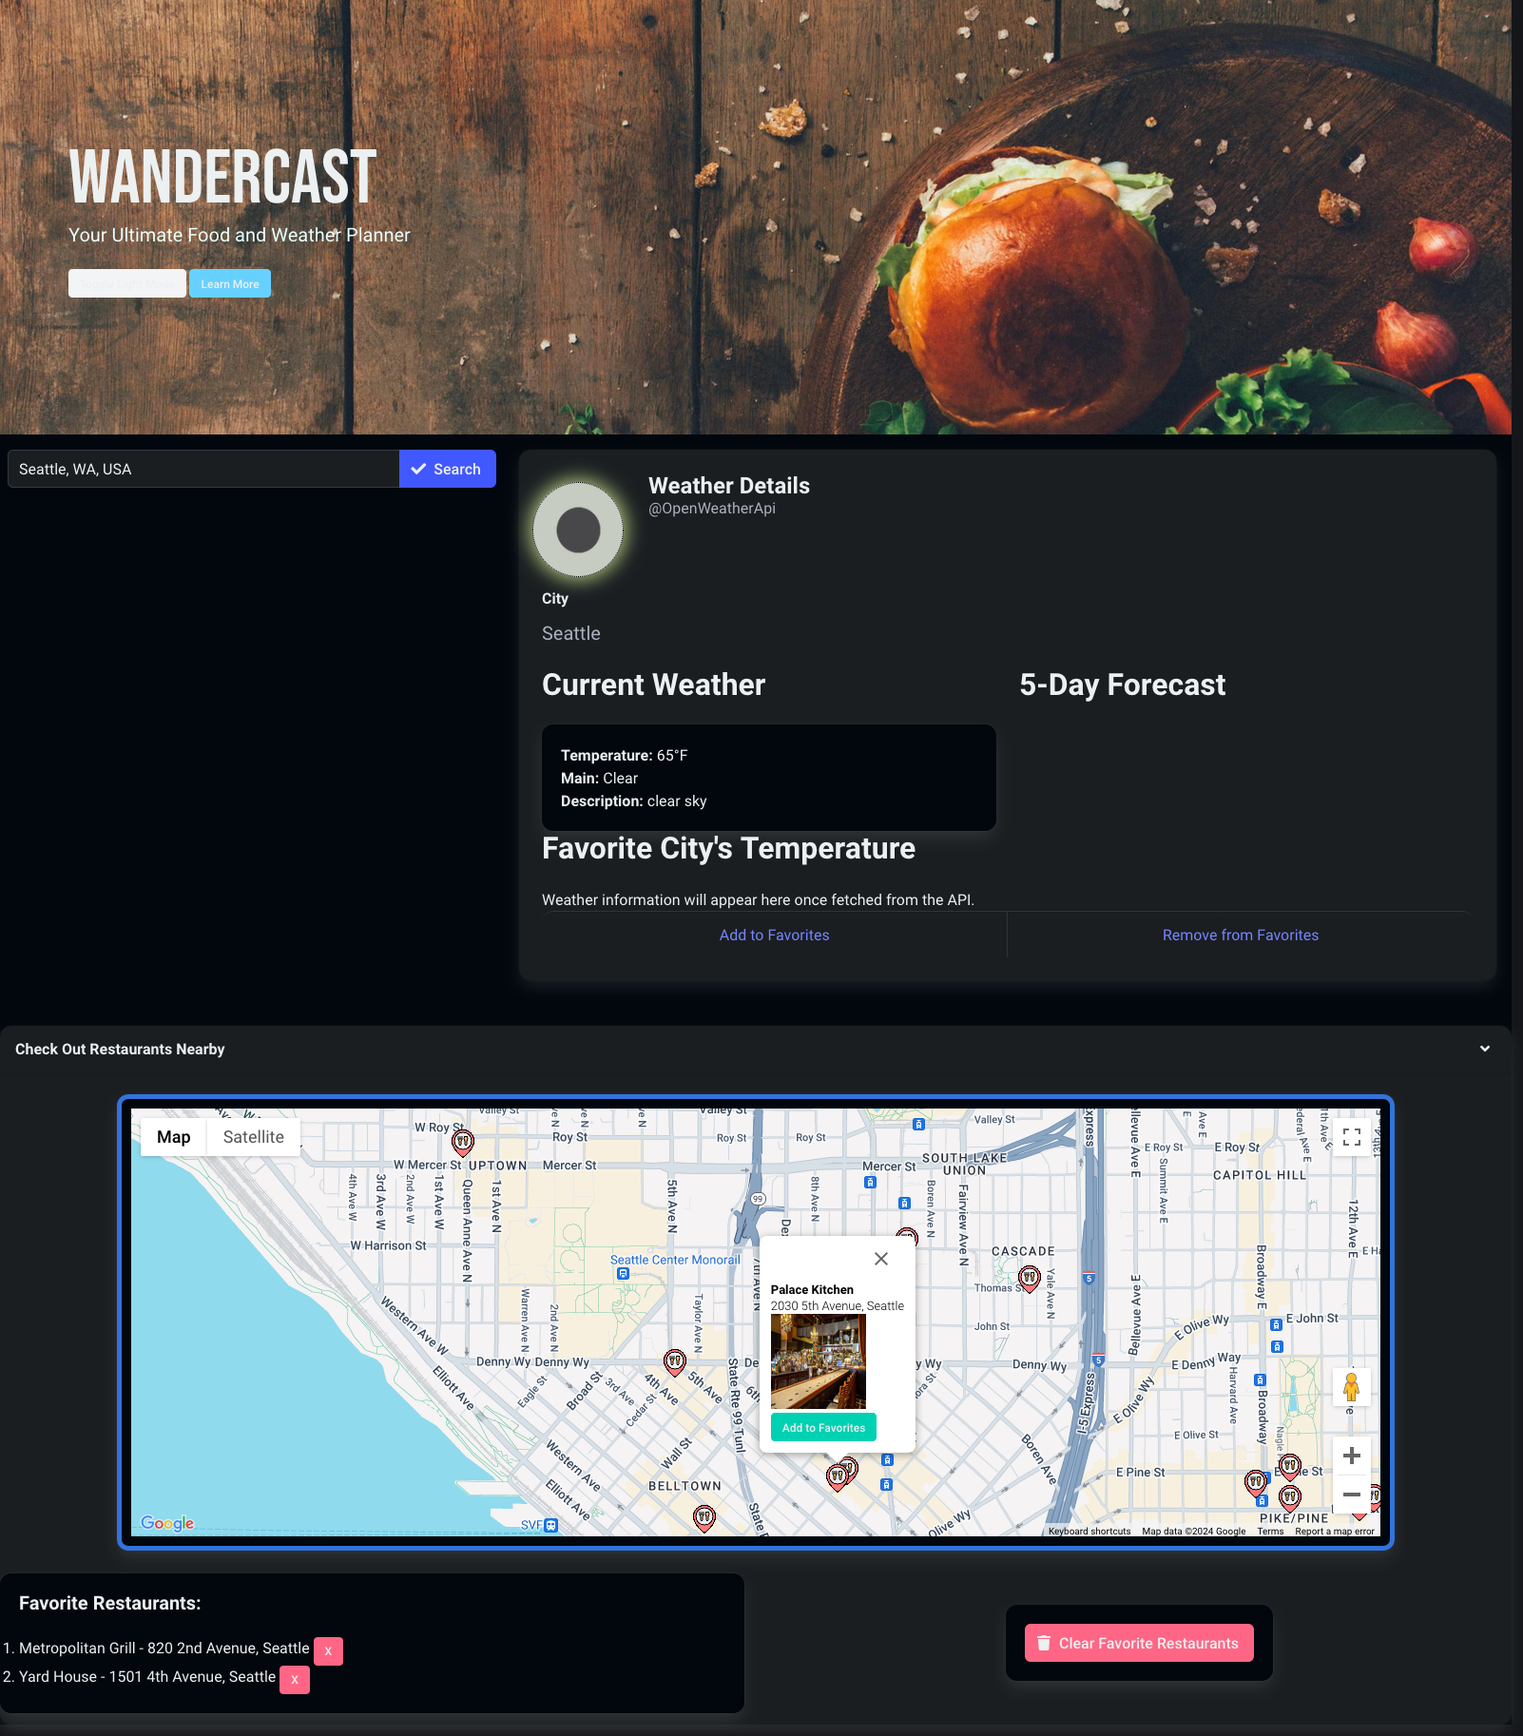
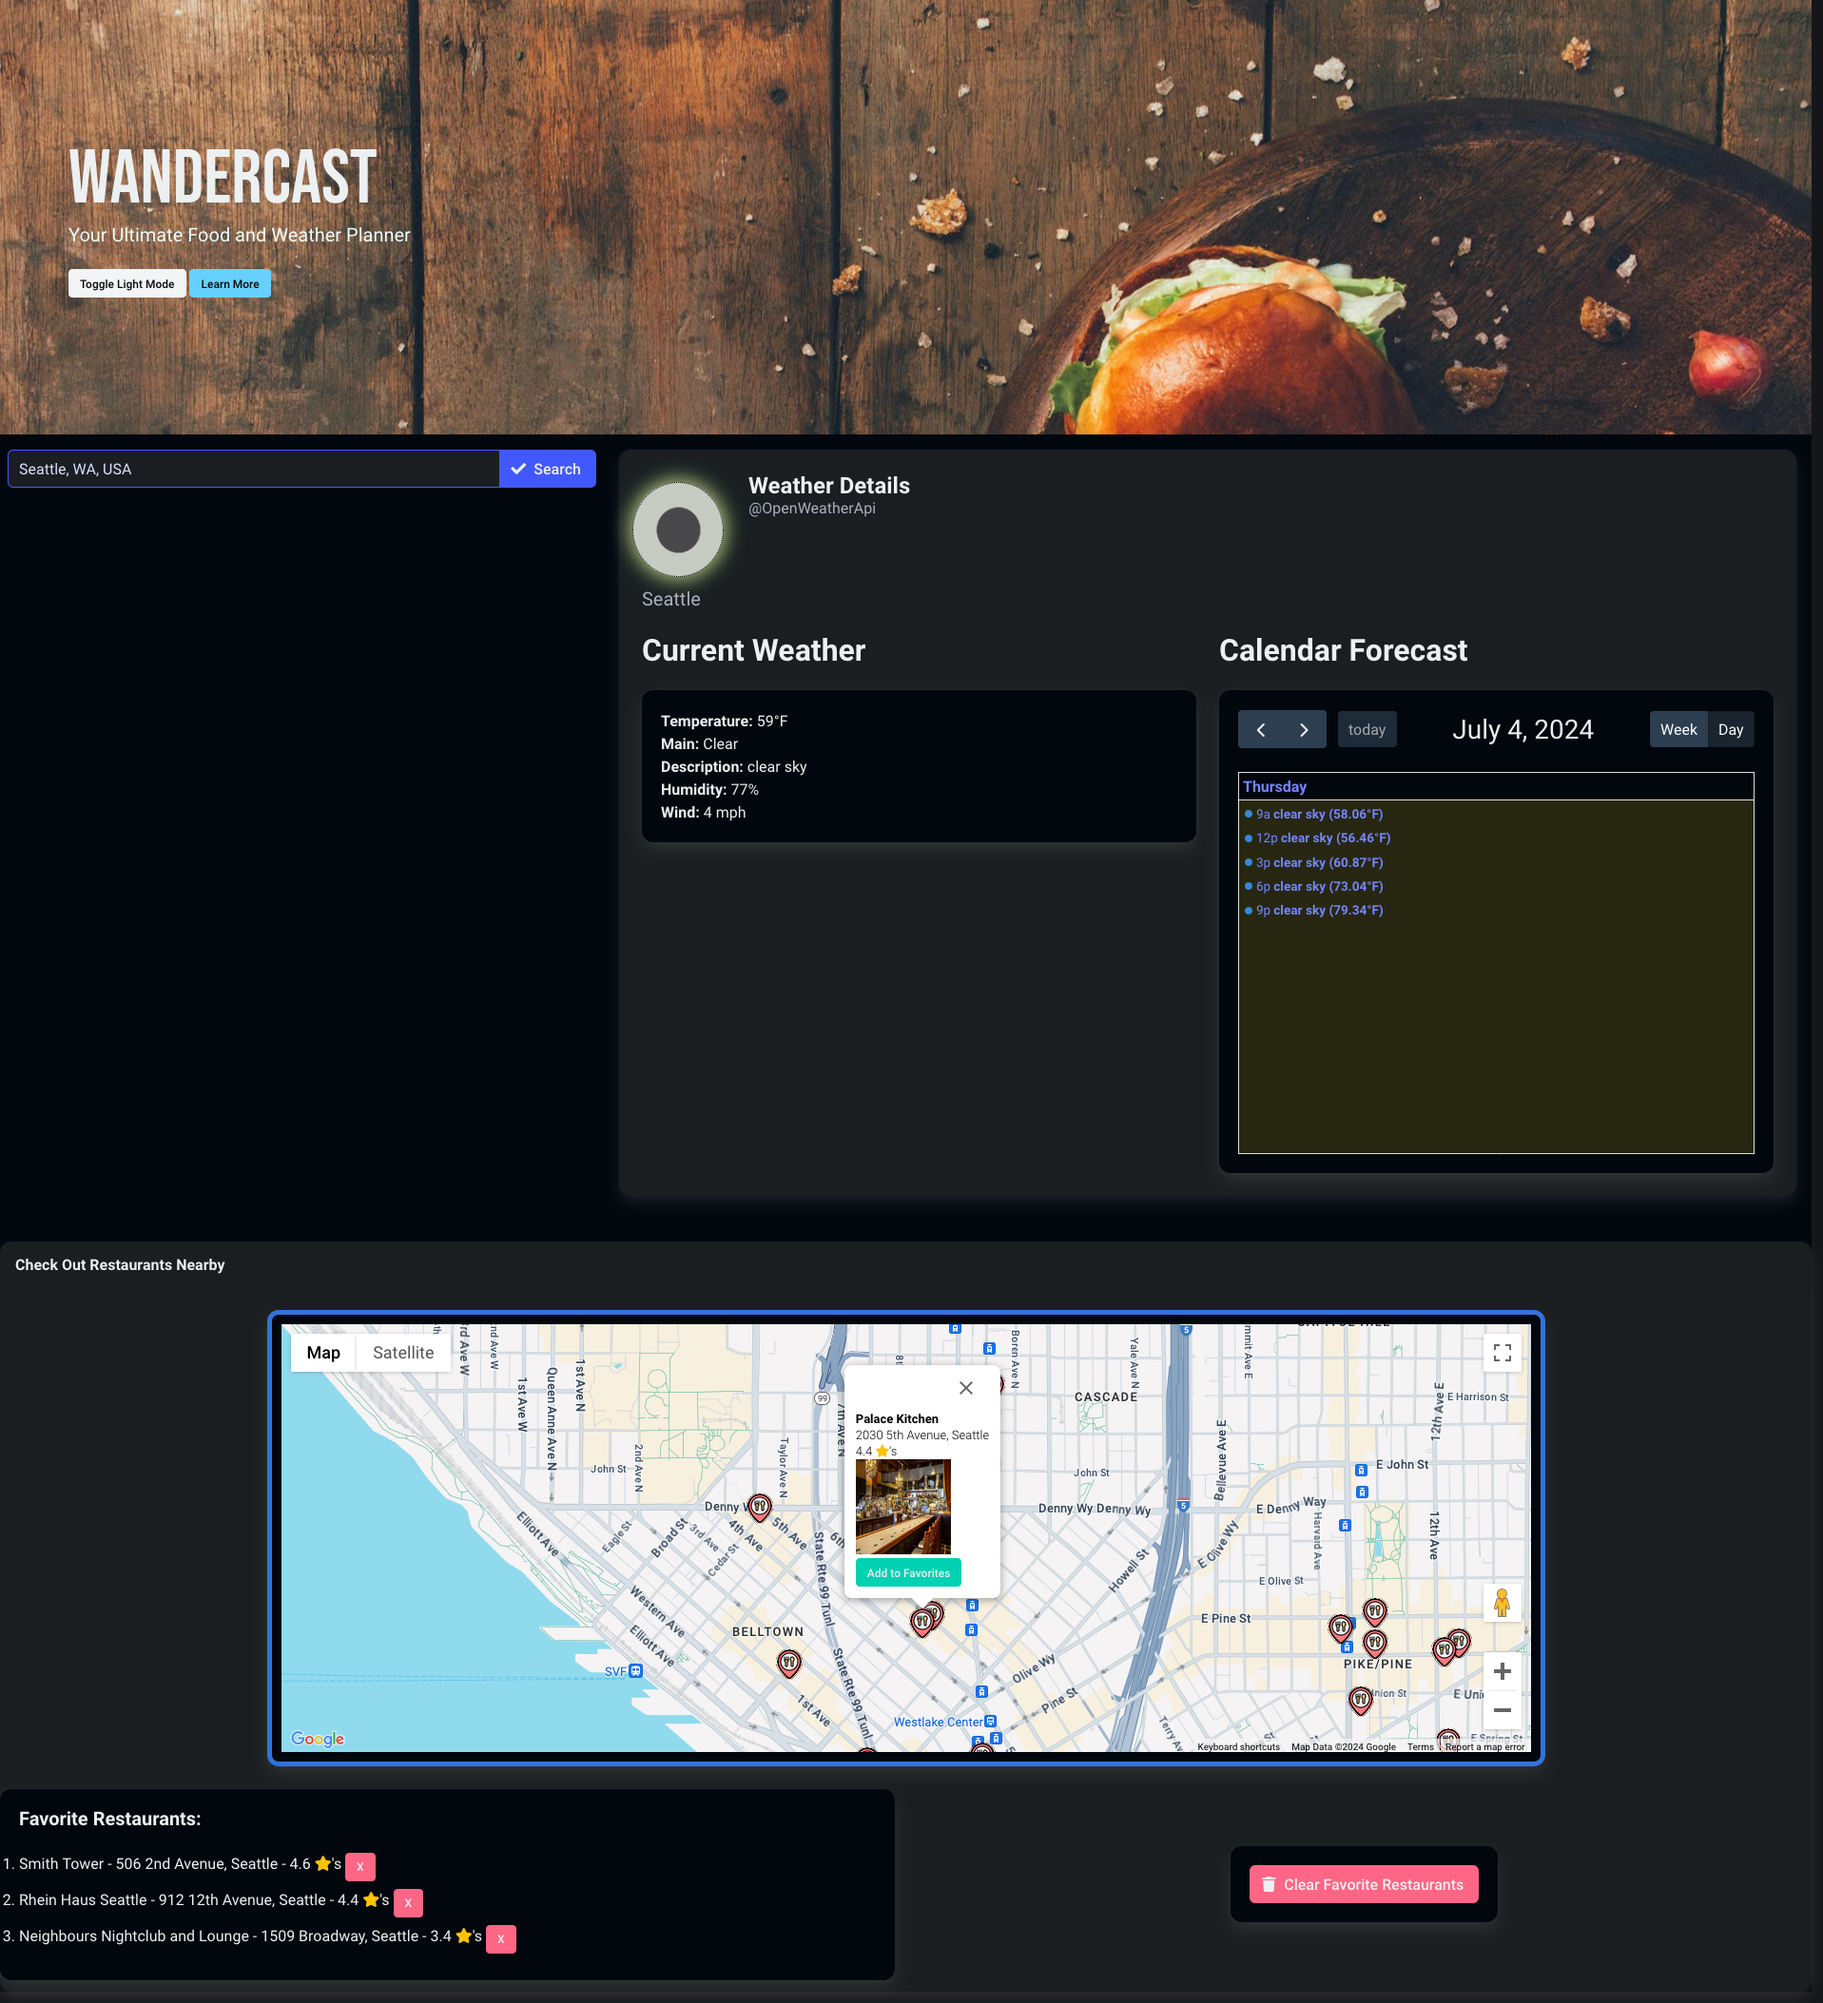
Update example image

diff --git a/index.html b/index.html
@@ -185,7 +185,7 @@
                       </section>
                     </div>
                     <div class="column">
-                      <h3 class="title is-3">5-Day Forecast Calendar</h3>
+                      <h3 class="title is-3">Calendar Forecast</h3>
                       <section class="box">
                         <div id="forecast-calendar">
                           <div class="content" id="forecast-calendar">
